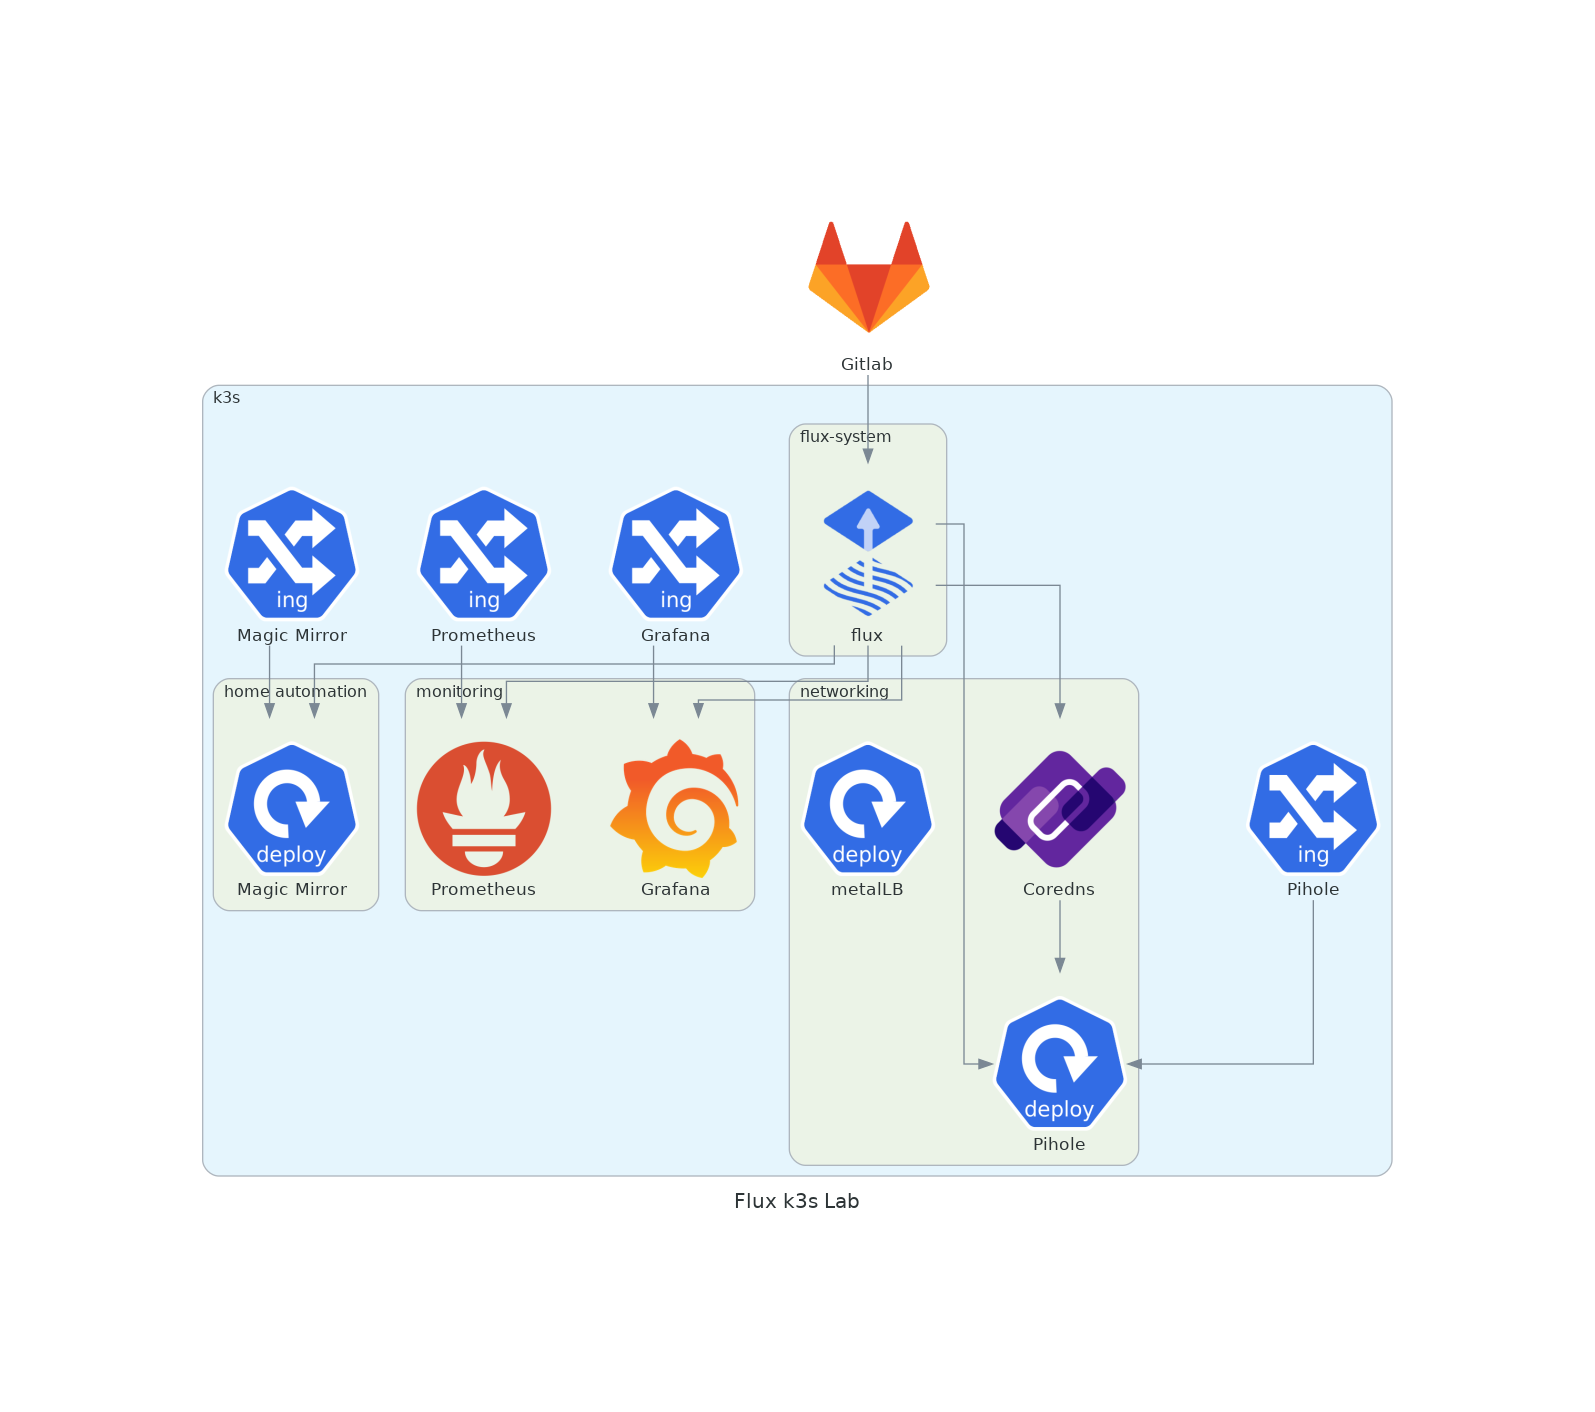
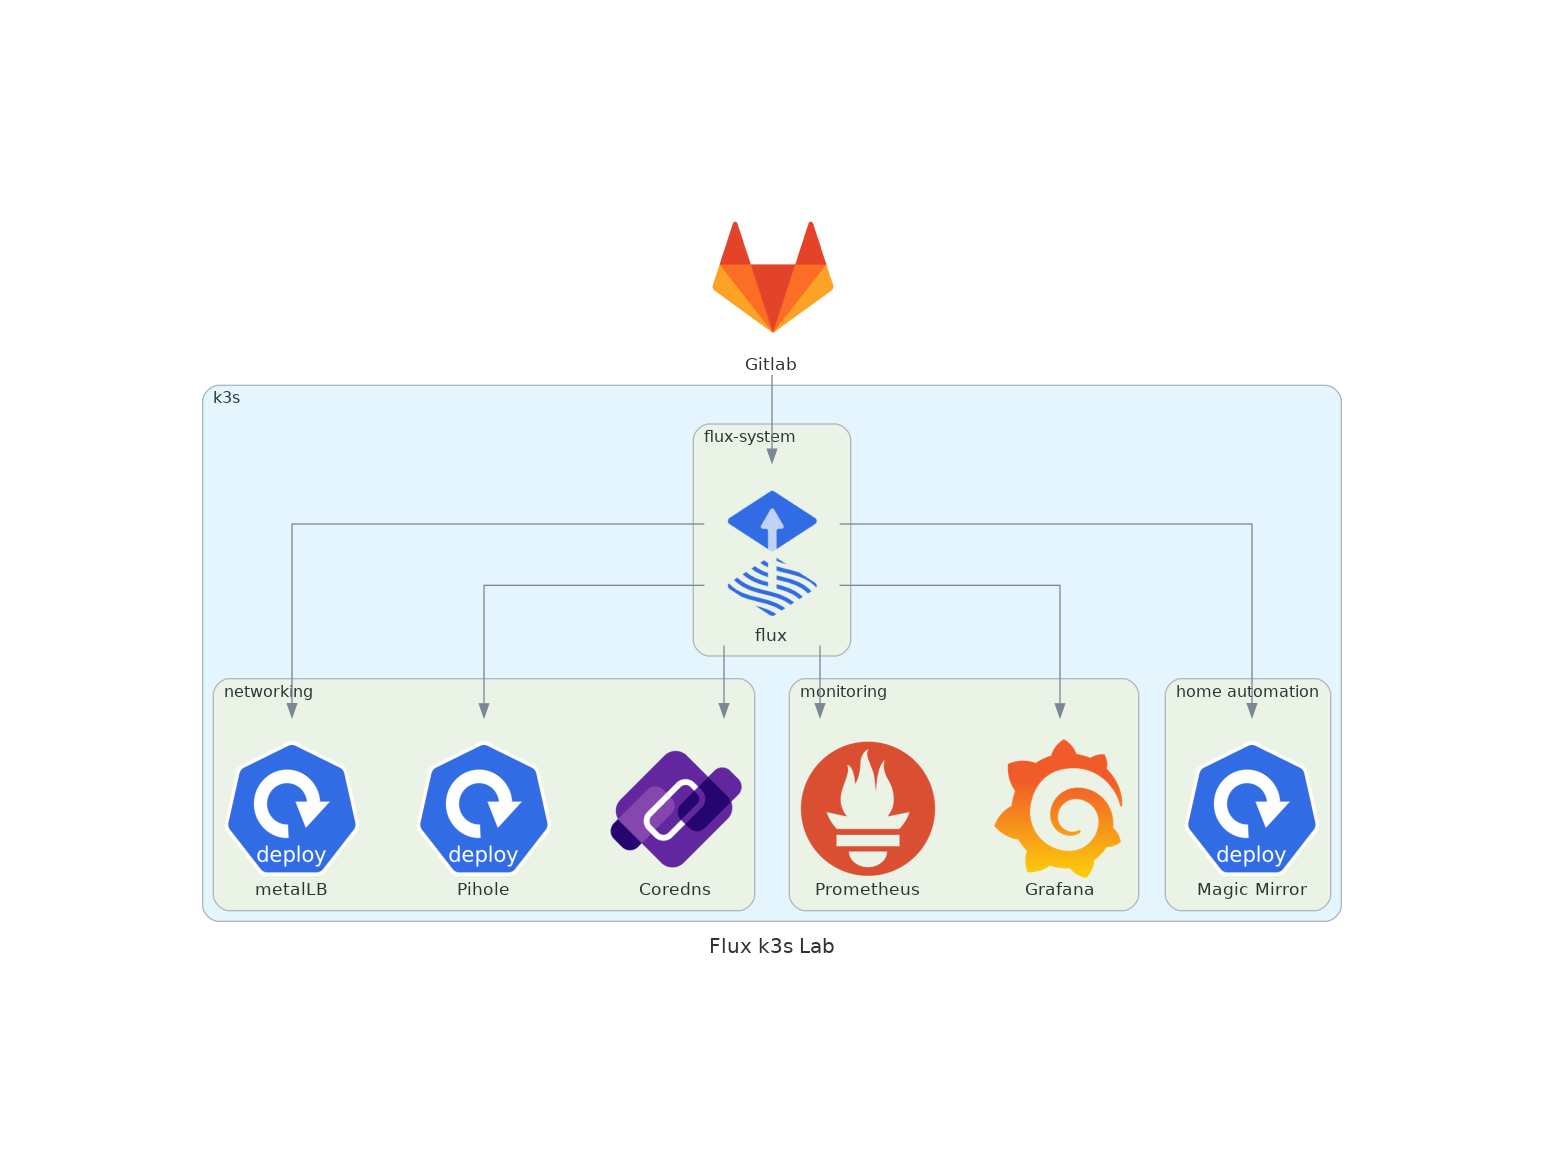
diagrams

Changed region(s): [[0.1244, 0.1556, 0.9016, 0.8712]]

diff --git a/diagrams/diagram.py b/diagrams/diagram.py
@@ -1,12 +1,10 @@
 from diagrams import Cluster, Diagram
-from diagrams.k8s.compute import Pod, StatefulSet, Deployment
-from diagrams.k8s.network import Service, Ingress
-from diagrams.k8s.storage import PV, PVC, StorageClass
+from diagrams.k8s.compute import Deployment
+from diagrams.k8s.network import Ingress
 from diagrams.onprem.gitops import Flux
 from diagrams.onprem.dns import Coredns
 from diagrams.onprem.monitoring import Prometheus,Grafana
 from diagrams.onprem.vcs import Gitlab
-from diagrams.generic.blank import Blank
 
 with Diagram("Flux k3s Lab", show=True, direction="TB"):
     with Cluster("k3s"):
@@ -20,21 +18,12 @@ with Diagram("Flux k3s Lab", show=True, direction="TB"):
             coredns = Coredns("Coredns")
             pihole = Deployment("Pihole")
             metalLB = Deployment("metalLB")
-            coredns >> pihole
         with Cluster("monitoring"):
             grafana = Grafana("Grafana")
             prometheus = Prometheus("Prometheus")
         with Cluster("home automation"):
             magicmirror = Deployment("Magic Mirror")
-        piholeIngress = Ingress("Pihole")
-        piholeIngress >> pihole
-        grafanaIngress = Ingress("Grafana")
-        grafanaIngress >> grafana
-        prometheusIngress = Ingress("Prometheus")
-        prometheusIngress >> prometheus
-        magicmirrorIngress = Ingress("Magic Mirror")
-        magicmirrorIngress >> magicmirror
     gitlab = Gitlab("Gitlab")
     gitlab >> flux
-    flux >> [coredns, pihole, grafana, prometheus, magicmirror]
+    flux >> [metalLB, coredns, pihole, grafana, prometheus, magicmirror]
     ingresses = ["Pihole", "Grafana", "Prometheus", "Magic Mirror"]
